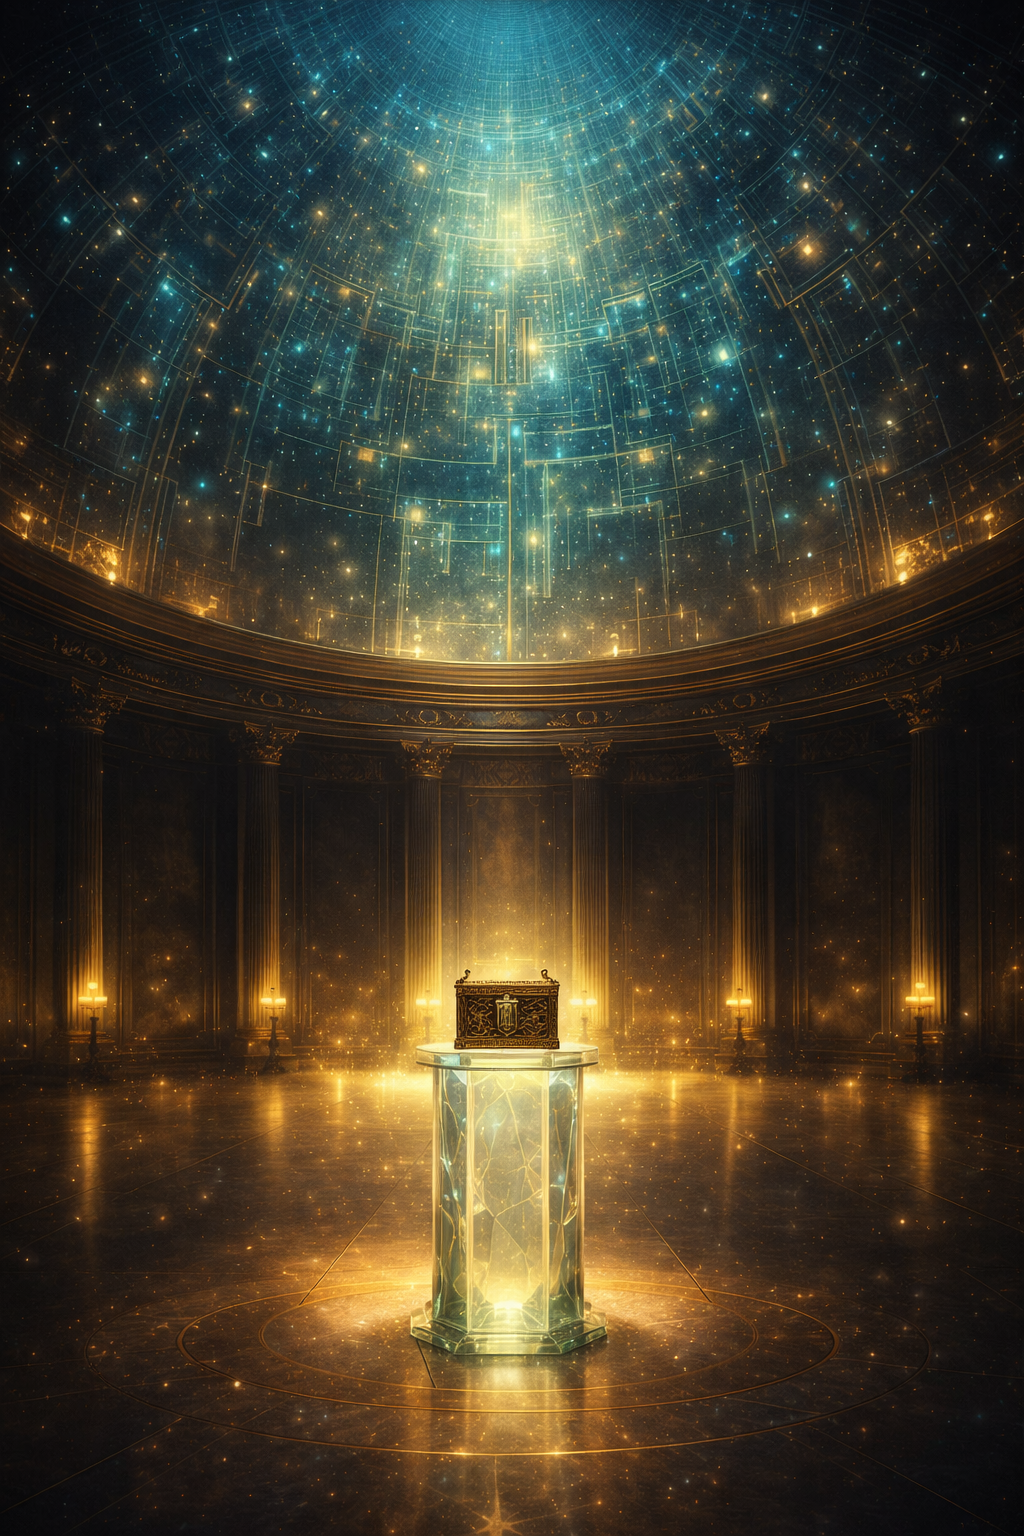
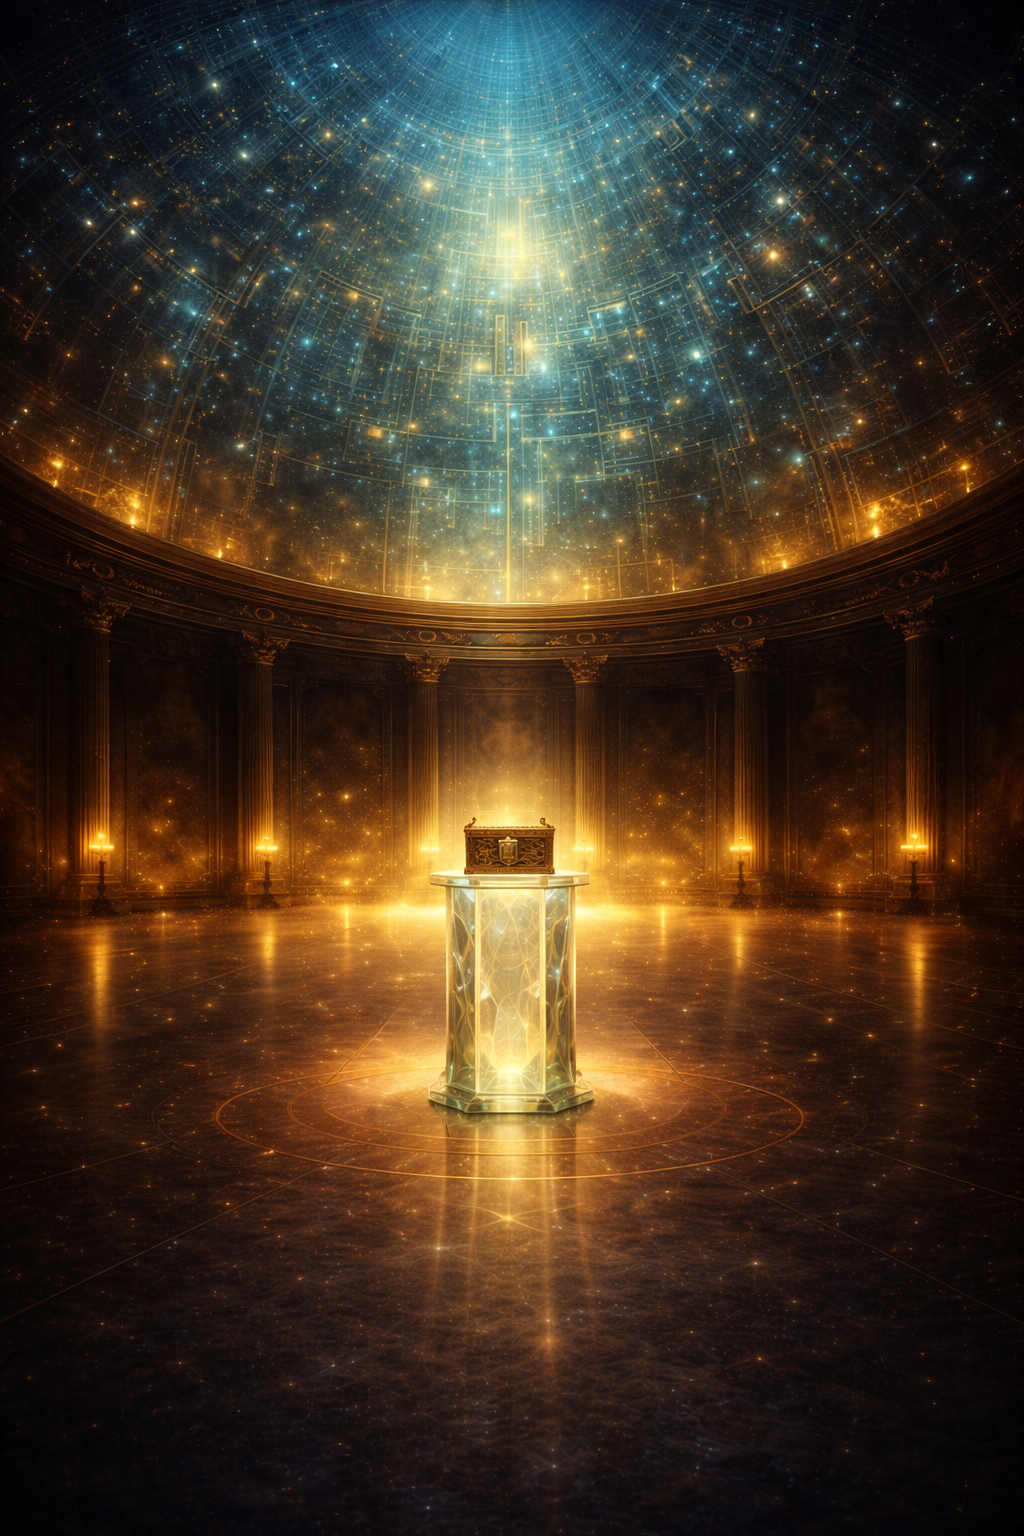
first commit

diff --git a/app/page.tsx b/app/page.tsx
@@ -154,10 +154,10 @@ const scenes = [
   {
     id: 1,
     title: "Digital Vault 404",
-    image: "/Scene1.1.png",
+    image: "/scene1.2.png",
     story: " Someone has locked a memory here for you.",
     description: "",
-    buttonText: "Continue",
+    buttonText: "Start Journey",
     dialogText: null,
     layout: "start",
     isUnlock: false,
@@ -193,7 +193,7 @@ const scenes = [
   {
     id: 4,
     title: "Path Revealed",
-    image: "/Scene4.png",
+    image: "/Scene4.1.png",
     story: "Pattern accepted. The vault responds to smart people.",
     description: "",
     buttonText: "Continue",
@@ -232,7 +232,7 @@ const scenes = [
   {
     id: 7,
     title: "Quiet Walk",
-    image: "/Scene7.png",
+    image: "/Scene7.1.png",
     story: "The vault no longer tests your speed. It watches how you move forward.",
     description: "",
     buttonText: "Walk Forward",
@@ -468,7 +468,7 @@ const EscapeRoom = () => {
   };
 
   if (currentSceneIndex === 4) triggerLaser('red');
-  if (currentSceneIndex === 5) triggerLaser('green');
+  if (currentSceneIndex === 6) triggerLaser('green');
   if (currentSceneIndex === 9) triggerLaser('golden');
 
 }, [currentSceneIndex]);
@@ -491,7 +491,7 @@ const EscapeRoom = () => {
     glow: 'rgba(239, 68, 68, 0.2)',
     text: 'text-red-400',
     bgPattern: '%23ef4444',
-    laserColor: '%23ef4444',
+    laserColor: '#ef4444',
     accentColor: 'red',
   } : colorScheme === 'green' ? {
     gradient: 'from-slate-950 via-slate-900 to-emerald-950',
@@ -500,7 +500,7 @@ const EscapeRoom = () => {
     glow: 'rgba(16, 185, 129, 0.2)',
     text: 'text-emerald-400',
     bgPattern: '%2310b981',
-    laserColor: '%2310b981',
+    laserColor: '#10b981',
     accentColor: 'emerald',
   } : {
     gradient: 'from-slate-950 via-amber-950 to-yellow-950',
@@ -509,7 +509,7 @@ const EscapeRoom = () => {
     glow: 'rgba(251, 191, 36, 0.3)',
     text: 'text-amber-400',
     bgPattern: '%23fbbf24',
-    laserColor: '%23fbbf24',
+    laserColor: '#fbbf24',
     accentColor: 'amber',
   };
 
@@ -814,97 +814,103 @@ const EscapeRoom = () => {
               </div>
             ) : (
               <>
-                <div className="relative h-100 overflow-hidden">
-                  <div className="absolute inset-0 bg-gradient-to-b from-transparent via-black/30 to-black/70 z-10" />
+                <div className="relative min-h-[700px] overflow-hidden">
+               
                   <img 
                     src={currentScene.image} 
                     alt={currentScene.title}
-                    className="w-full h-full object-cover transform hover:scale-110 transition-transform duration-1000 ease-out"
+                    className="absolute inset-0 w-full h-full object-cover transform hover:scale-105 transition-transform duration-1000 ease-out"
                   />
+                  
+                  <div className="absolute inset-0 bg-gradient-to-b from-black/60 via-black/40 to-black/80" />
+                  <div className="absolute inset-0 bg-gradient-to-r from-black/30 via-transparent to-black/30" />
 
-                  <div className="absolute top-6 left-6 right-6 z-20">
-                    <div className={`bg-black/70 backdrop-blur-md rounded-2xl px-6 py-3 border-2 ${colors.border} shadow-xl transition-all duration-1000`}>
-                      <h2 className={`text-3xl font-bold ${colors.text} text-center tracking-wide drop-shadow-lg transition-all duration-1000`}>
+                  <div className="absolute top-6 left-8 right-8 z-20">
+                    <div className={`bg-black/80 backdrop-blur-xl rounded-2xl px-8 py-4 border-2 ${colors.border} shadow-2xl transition-all duration-1000 transform hover:scale-105`}
+                      style={{ boxShadow: `0 0 30px ${colors.glow}` }}>
+                      <h2 className={`text-4xl font-bold ${colors.text} text-center tracking-wide drop-shadow-2xl transition-all duration-1000`}>
                         {currentScene.title}
                       </h2>
                     </div>
                   </div>
-                </div>
-
-                <div className="p-8 space-y-6 relative z-20">
-                  <div className={`bg-gradient-to-br ${colors.cardGradient} backdrop-blur-sm rounded-2xl p-6 border-2 ${colors.border} shadow-xl transition-all duration-1000`}>
-                    <p className={`${colorScheme === 'blue' ? 'text-blue-100' : colorScheme === 'red' ? 'text-red-100' : colorScheme === 'green' ? 'text-emerald-100' : 'text-amber-100'} text-lg leading-relaxed italic font-serif transition-all duration-1000`}>
-                      {currentScene.story}
-                    </p>
-                  </div>
-
-                  <p className={`${colorScheme === 'blue' ? 'text-blue-300' : colorScheme === 'red' ? 'text-red-300' : colorScheme === 'green' ? 'text-emerald-300' : 'text-amber-300'} text-center font-semibold text-lg transition-all duration-1000`}>
-                    {currentScene.description}
-                  </p>
-
-                  {currentScene.dialogText && (
-                    <div className={`relative bg-gradient-to-br ${
-                      colorScheme === 'blue' ? 'from-blue-50 to-blue-100 border-blue-700' :
-                      colorScheme === 'red' ? 'from-red-50 to-red-100 border-red-700' :
-                      colorScheme === 'green' ? 'from-emerald-50 to-emerald-100 border-emerald-700' :
-                      'from-amber-50 to-yellow-100 border-amber-700'
-                    } rounded-2xl p-5 border-3 shadow-2xl transition-all duration-1000`}>
-                      <div className={`absolute -top-4 left-1/2 transform -translate-x-1/2 w-8 h-8 bg-gradient-to-br ${
+                  <div className="absolute inset-x-8 bottom-8 z-20 space-y-5">
+                    <div className={`bg-black/65 backdrop-blur-xl rounded-2xl p-4 border-2 ${colors.border} shadow-2xl transition-all duration-1000 transform hover:scale-[1.02]`}
+                      style={{ boxShadow: `0 0 40px ${colors.glow}` }}>
+                      <p className={`${colorScheme === 'blue' ? 'text-blue-100' : colorScheme === 'red' ? 'text-red-100' : colorScheme === 'green' ? 'text-emerald-100' : 'text-amber-100'} text-xl leading-relaxed italic font-serif transition-all duration-1000`}>
+                        {currentScene.story}
+                      </p>
+                    </div>
+                    {currentScene.description && (
+                      <p className={`${colorScheme === 'blue' ? 'text-blue-300' : colorScheme === 'red' ? 'text-red-300' : colorScheme === 'green' ? 'text-emerald-300' : 'text-amber-300'} text-center font-semibold text-lg px-4 drop-shadow-lg transition-all duration-1000`}>
+                        {currentScene.description}
+                      </p>
+                    )}
+                    {currentScene.dialogText && (
+                      <div className={`relative bg-gradient-to-br ${
                         colorScheme === 'blue' ? 'from-blue-50 to-blue-100 border-blue-700' :
                         colorScheme === 'red' ? 'from-red-50 to-red-100 border-red-700' :
                         colorScheme === 'green' ? 'from-emerald-50 to-emerald-100 border-emerald-700' :
                         'from-amber-50 to-yellow-100 border-amber-700'
-                      } border-l-3 border-t-3 rotate-45 transition-all duration-1000`} />
-                      <p className="relative text-slate-900 text-center font-medium text-lg leading-relaxed">
-                        "{currentScene.dialogText}"
-                      </p>
-                      <div className="absolute -bottom-2 right-8 flex gap-1">
-                        <div className={`w-2 h-2 ${
-                          colorScheme === 'blue' ? 'bg-blue-700' :
-                          colorScheme === 'red' ? 'bg-red-700' :
-                          colorScheme === 'green' ? 'bg-emerald-700' :
-                          'bg-amber-700'
-                        } rounded-full animate-bounce transition-all duration-1000`} />
-                        <div className={`w-2 h-2 ${
-                          colorScheme === 'blue' ? 'bg-blue-700' :
-                          colorScheme === 'red' ? 'bg-red-700' :
-                          colorScheme === 'green' ? 'bg-emerald-700' :
-                          'bg-amber-700'
-                        } rounded-full animate-bounce transition-all duration-1000`} style={{ animationDelay: '0.1s' }} />
-                        <div className={`w-2 h-2 ${
-                          colorScheme === 'blue' ? 'bg-blue-700' :
-                          colorScheme === 'red' ? 'bg-red-700' :
-                          colorScheme === 'green' ? 'bg-emerald-700' :
-                          'bg-amber-700'
-                        } rounded-full animate-bounce transition-all duration-1000`} style={{ animationDelay: '0.2s' }} />
+                      } rounded-2xl p-6 border-3 shadow-2xl transition-all duration-1000 transform hover:scale-[1.02]`}>
+                        <div className={`absolute -top-4 left-1/2 transform -translate-x-1/2 w-8 h-8 bg-gradient-to-br ${
+                          colorScheme === 'blue' ? 'from-blue-50 to-blue-100 border-blue-700' :
+                          colorScheme === 'red' ? 'from-red-50 to-red-100 border-red-700' :
+                          colorScheme === 'green' ? 'from-emerald-50 to-emerald-100 border-emerald-700' :
+                          'from-amber-50 to-yellow-100 border-amber-700'
+                        } border-l-3 border-t-3 rotate-45 transition-all duration-1000`} />
+                        <p className="relative text-slate-900 text-center font-medium text-lg leading-relaxed">
+                          "{currentScene.dialogText}"
+                        </p>
+                        <div className="absolute -bottom-2 right-8 flex gap-1">
+                          <div className={`w-2 h-2 ${
+                            colorScheme === 'blue' ? 'bg-blue-700' :
+                            colorScheme === 'red' ? 'bg-red-700' :
+                            colorScheme === 'green' ? 'bg-emerald-700' :
+                            'bg-amber-700'
+                          } rounded-full animate-bounce transition-all duration-1000`} />
+                          <div className={`w-2 h-2 ${
+                            colorScheme === 'blue' ? 'bg-blue-700' :
+                            colorScheme === 'red' ? 'bg-red-700' :
+                            colorScheme === 'green' ? 'bg-emerald-700' :
+                            'bg-amber-700'
+                          } rounded-full animate-bounce transition-all duration-1000`} style={{ animationDelay: '0.1s' }} />
+                          <div className={`w-2 h-2 ${
+                            colorScheme === 'blue' ? 'bg-blue-700' :
+                            colorScheme === 'red' ? 'bg-red-700' :
+                            colorScheme === 'green' ? 'bg-emerald-700' :
+                            'bg-amber-700'
+                          } rounded-full animate-bounce transition-all duration-1000`} style={{ animationDelay: '0.2s' }} />
+                        </div>
                       </div>
-                    </div>
-                  )}
+                    )}
 
-                  <button
-                    onClick={handleNext}
-                    className={`relative w-full bg-gradient-to-r ${
-                      colorScheme === 'blue' ? 'from-blue-600 via-blue-500 to-blue-600 hover:from-blue-500 hover:via-blue-400 hover:to-blue-500 border-blue-400 hover:shadow-blue-600/40' :
-                      colorScheme === 'red' ? 'from-red-600 via-red-500 to-red-600 hover:from-red-500 hover:via-red-400 hover:to-red-500 border-red-400 hover:shadow-red-600/40' :
-                      colorScheme === 'green' ? 'from-emerald-600 via-emerald-500 to-emerald-600 hover:from-emerald-500 hover:via-emerald-400 hover:to-emerald-500 border-emerald-400 hover:shadow-emerald-600/40' :
-                      'from-amber-600 via-yellow-500 to-amber-600 hover:from-amber-500 hover:via-yellow-400 hover:to-amber-500 border-amber-400 hover:shadow-amber-600/40'
-                    } text-slate-950 font-bold py-5 px-8 rounded-xl transition-all duration-300 transform hover:scale-105 hover:shadow-2xl active:scale-95 flex items-center justify-center gap-3 border-3 shadow-xl overflow-hidden group`}
-                  >
-                    <div className="absolute inset-0 bg-gradient-to-r from-transparent via-white/30 to-transparent translate-x-[-200%] group-hover:translate-x-[200%] transition-transform duration-1000" />
-                    {currentScene.isUnlock && <Unlock className="w-7 h-7 group-hover:rotate-12 transition-transform" />}
-                    <span className="text-xl relative z-10">{currentScene.buttonText}</span>
-                    <ChevronRight className="w-7 h-7 group-hover:translate-x-2 transition-transform relative z-10" />
-                  </button>
+               
+                    <button
+                      onClick={handleNext}
+                      className={`relative w-full bg-gradient-to-r ${
+                        colorScheme === 'blue' ? 'from-blue-600 via-blue-500 to-blue-600 hover:from-blue-500 hover:via-blue-400 hover:to-blue-500 border-blue-400 hover:shadow-blue-600/40' :
+                        colorScheme === 'red' ? 'from-red-600 via-red-500 to-red-600 hover:from-red-500 hover:via-red-400 hover:to-red-500 border-red-400 hover:shadow-red-600/40' :
+                        colorScheme === 'green' ? 'from-emerald-600 via-emerald-500 to-emerald-600 hover:from-emerald-500 hover:via-emerald-400 hover:to-emerald-500 border-emerald-400 hover:shadow-emerald-600/40' :
+                        'from-amber-600 via-yellow-500 to-amber-600 hover:from-amber-500 hover:via-yellow-400 hover:to-amber-500 border-amber-400 hover:shadow-amber-600/40'
+                      } text-slate-950 font-bold py-5 px-8 rounded-xl transition-all duration-300 transform hover:scale-105 hover:shadow-2xl active:scale-95 flex items-center justify-center gap-3 border-3 shadow-xl overflow-hidden group`}
+                    >
+                      <div className="absolute inset-0 bg-gradient-to-r from-transparent via-white/30 to-transparent translate-x-[-200%] group-hover:translate-x-[200%] transition-transform duration-1000" />
+                      {currentScene.isUnlock && <Unlock className="w-7 h-7 group-hover:rotate-12 transition-transform" />}
+                      <span className="text-xl relative z-10">{currentScene.buttonText}</span>
+                      <ChevronRight className="w-7 h-7 group-hover:translate-x-2 transition-transform relative z-10" />
+                    </button>
 
-                  {isLastScene && (
-                    <div className="flex items-center justify-center gap-2">
-                      <div className={`w-2 h-2 ${colors.text.replace('text-', 'bg-')} rounded-full animate-ping`} />
-                      <p className={`${colors.text}/70 text-sm text-center animate-pulse`}>
-                        Click to restart your adventure
-                      </p>
-                      <div className={`w-2 h-2 ${colors.text.replace('text-', 'bg-')} rounded-full animate-ping`} />
-                    </div>
-                  )}
+                
+                    {isLastScene && (
+                      <div className="flex items-center justify-center gap-2 bg-black/60 backdrop-blur-md rounded-full py-3 px-6">
+                        <div className={`w-2 h-2 ${colors.text.replace('text-', 'bg-')} rounded-full animate-ping`} />
+                        <p className={`${colors.text} text-sm text-center animate-pulse font-medium`}>
+                          Click to restart your adventure
+                        </p>
+                        <div className={`w-2 h-2 ${colors.text.replace('text-', 'bg-')} rounded-full animate-ping`} />
+                      </div>
+                    )}
+                  </div>
                 </div>
               </>
             )}

diff --git a/puzzles/difference/diff.tsx b/puzzles/difference/diff.tsx
@@ -135,7 +135,7 @@ return (
       </div>
 
       <p className="text-amber-300 text-xs text-center italic">
-        Click on the right image where you spot a difference
+        Click on the image where you spot a difference
       </p>
     </div>
     );
